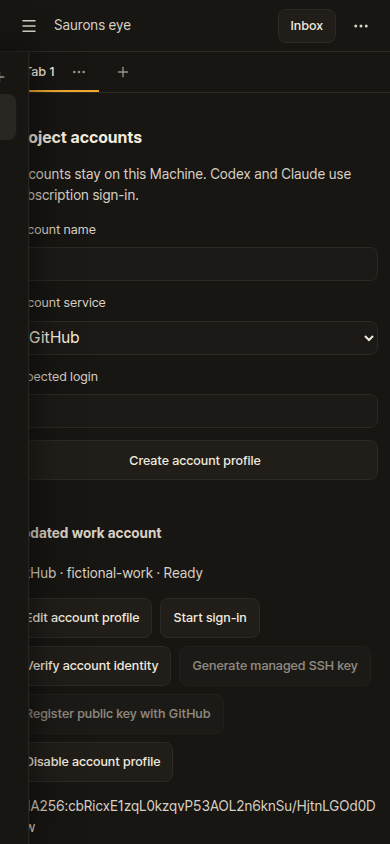
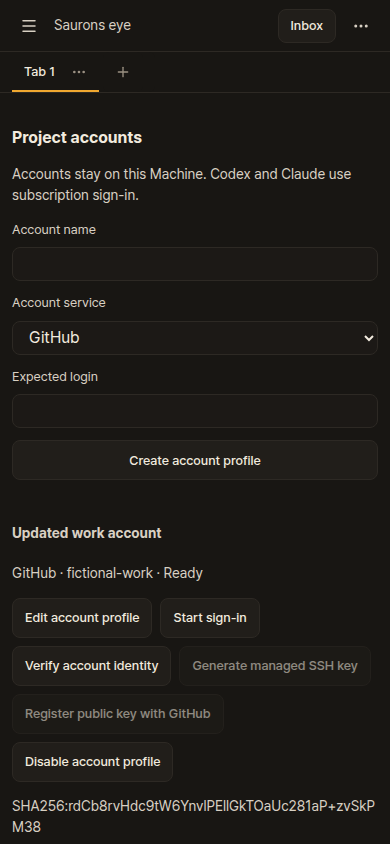
docs(accounts): capture settled phone layout

diff --git a/scripts/account-profiles-browser-regression.ts b/scripts/account-profiles-browser-regression.ts
@@ -50,7 +50,9 @@ try {
   await updated.getByText("Needs sign-in", { exact: true }).waitFor();
   await updated.getByRole("button", { name: "Verify account identity", exact: true }).click(); await updated.getByText("Ready", { exact: true }).waitFor();
   const overview = await (await fetch(origin + "/api/factory")).json(); assert(overview.projects.find((entry: { id: string }) => entry.id === project.id).account_bindings.local.github);
-  await page.setViewportSize({ width: 390, height: 844 }); await accounts.scrollIntoViewIfNeeded();
+  await page.setViewportSize({ width: 390, height: 844 });
+  await page.waitForFunction(() => { const drawer = document.querySelector(".sidebar"); return !drawer || getComputedStyle(drawer).visibility === "hidden"; });
+  await accounts.scrollIntoViewIfNeeded();
   for (const control of [accounts.getByRole("textbox", { name: "Account name", exact: true }), accounts.getByRole("button", { name: "Save Project accounts", exact: true })]) {
     const bounds = await control.boundingBox(); assert(bounds && bounds.x >= 0 && bounds.x + bounds.width <= 390, "Account controls fit the phone viewport");
   }
